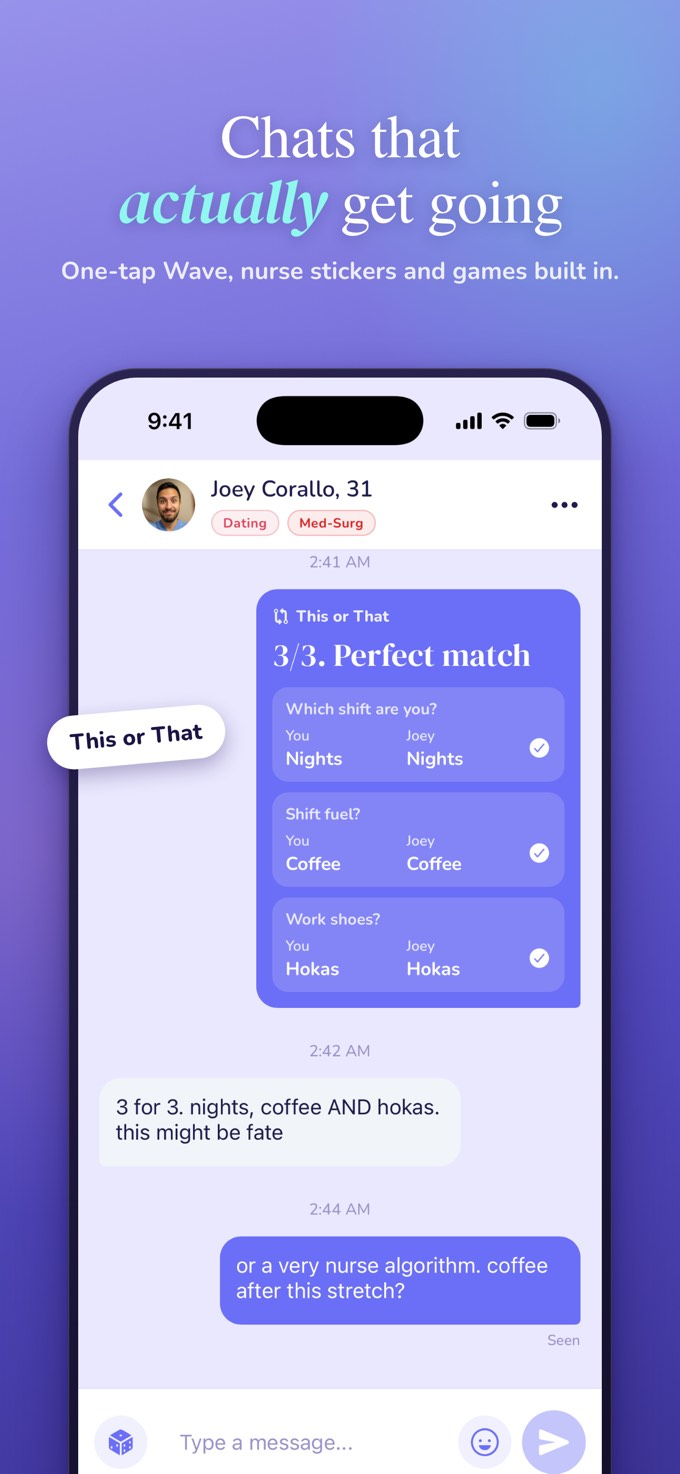
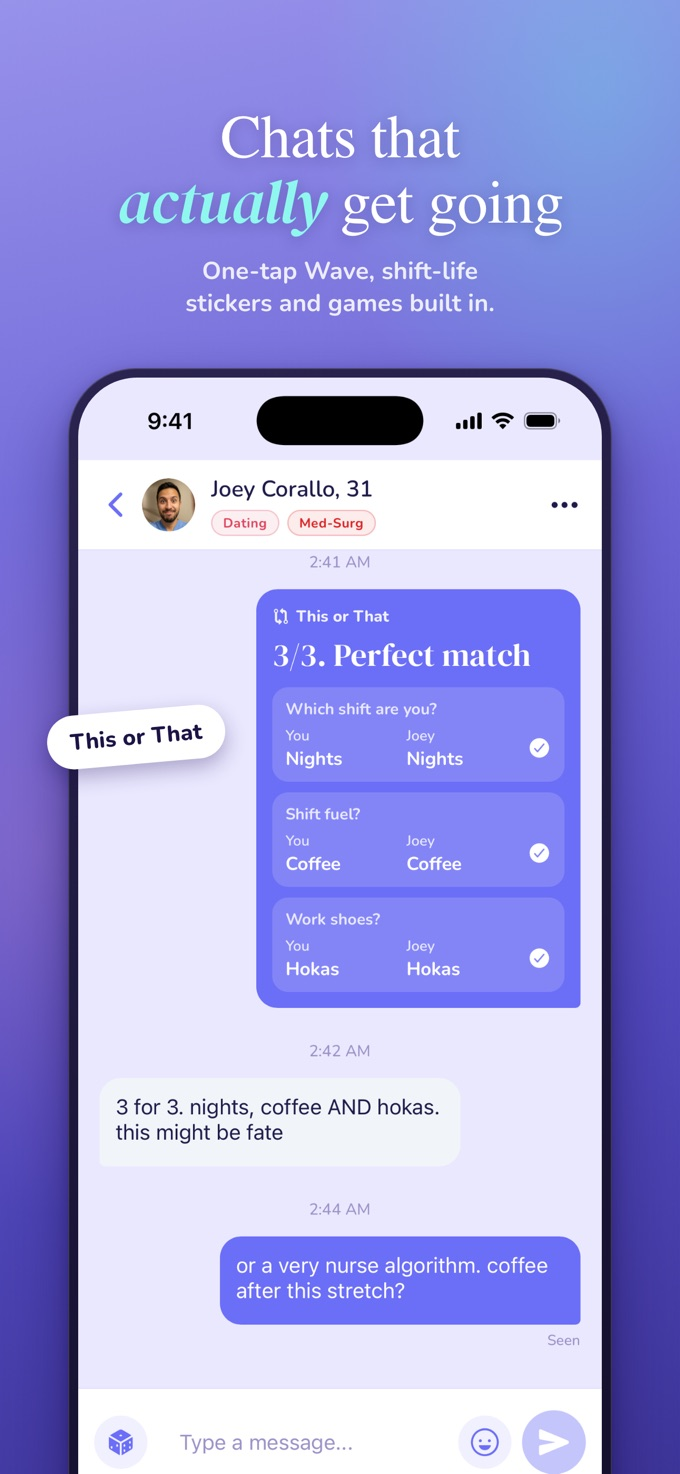
Open to healthcare workers and first responders: copy, job shot, Privacy 2.10, Terms 1.4
Privacy: job + specialty, private typed job, Who-you-see (both ways), First
Responder label, the main-photo check (no biometric data), Anthropic purpose.
Terms: eligibility lists healthcare + first responders, unlisted jobs = OffFeed,
no misrepresenting your job.

Changed region(s): [[0.2471, 0.156, 0.8956, 0.2185], [0.0926, 0.156, 0.2162, 0.1872]]

diff --git a/privacy.html b/privacy.html
@@ -171,12 +171,12 @@
   <div class="policy-header">
     <p class="policy-tag">Legal</p>
     <h1>Privacy Policy</h1>
-    <p class="policy-meta">Version 2.9 &nbsp;·&nbsp; Effective October 6, 2026 &nbsp;·&nbsp; Applies to the OFFUNIT mobile app, waitlist, and website</p>
+    <p class="policy-meta">Version 2.10 &nbsp;·&nbsp; Effective October 12, 2026 &nbsp;·&nbsp; Applies to the OFFUNIT mobile app, waitlist, and website</p>
   </div>
 
   <div class="policy-section">
     <h2>Introduction</h2>
-    <p>OFFUNIT ("we," "us," or "our") is a social networking platform built for nurses and healthcare professionals — for dating, friendship, and professional networking. This Privacy Policy explains what information we collect through the OFFUNIT mobile app, waitlist, and website, how we use it, who we share it with, and the rights and choices you have.</p>
+    <p>OFFUNIT ("we," "us," or "our") is a social networking platform built for nurses, healthcare workers and first responders — for dating, friendship, and professional networking. This Privacy Policy explains what information we collect through the OFFUNIT mobile app, waitlist, and website, how we use it, who we share it with, and the rights and choices you have.</p>
     <p>By creating an OFFUNIT account or joining the waitlist, you agree to the practices described here.</p>
   </div>
 
@@ -188,12 +188,14 @@
       <li>Age / date of birth (to verify you are 18 or older)</li>
       <li>Profile photos and an optional featured GIF</li>
       <li>Bio, icebreaker prompts, and quiz answers (including your personality result)</li>
-      <li>Professional details: nursing specialty and sub-specialty, years of experience, shift type, and certification status</li>
+      <li>Professional details: your job (for example RN, paramedic or firefighter), your specialty, sub-specialty, unit or station, years of experience, and shift type</li>
+      <li>If you tell us your job isn't listed, the job you type in. Only the OFFUNIT team can see it, to decide which jobs to add next. It is never shown to other members</li>
+      <li>Who you see: the job groups you want in your deck (nurses, healthcare, first responders). This works both ways, so people outside the groups you choose don't see you either. If you are a first responder and turn on "Show me as First Responder", other members see only that label, never your exact job or sub-specialty</li>
       <li>Your selected modes (dating, friends, networking) and matching preferences</li>
     </ul>
     <p><strong>If you sign in with Google or Apple:</strong> we receive your name, email address, and an account identifier from Google or Apple. We never receive your Google or Apple password.</p>
     <p><strong>If you verify your nursing license (optional):</strong> we collect your license number, license state, and expiration date. <strong>We never store your license photo</strong> — it is read in memory to pull those details out and is discarded immediately. See Section 4.</p>
-    <p><strong>Location:</strong> with your permission, we collect your device's location coordinates and store them on your profile. We use them to place you in a city hub and to put nurses closest to you first in your deck. Other members are only ever shown your city: never your coordinates, and never how far away you are. If you decline the location permission, you can select your city manually instead.</p>
+    <p><strong>Location:</strong> with your permission, we collect your device's location coordinates and store them on your profile. We use them to place you in a city hub and to put the people closest to you first in your deck. Other members are only ever shown your city: never your coordinates, and never how far away you are. If you decline the location permission, you can select your city manually instead.</p>
     <p><strong>Content you create:</strong> chat messages with your matches, posts, comments, and reactions on the OffFeed, trivia answers and results, badges you earn, reports you submit, and feedback you send us from the app.</p>
     <p><strong>Your settings and activity on the platform:</strong> who you have paged, passed, matched with, or sparked; who you have blocked; whether incognito browsing is turned on; your notification preferences; and your matching filters.</p>
     <p><strong>Purchases and paid features:</strong> if you subscribe to OFFUNIT+ or buy Sparks or Boosts, we store your subscription status, your remaining Spark and Boost balances, and a record of the purchase. See Section 6.</p>
@@ -203,7 +205,7 @@
       <li>App usage events: opening the app, which screens you open, and actions such as signing up, swiping, matching, sending a message, posting, or making a purchase. These record that something happened, never what was said: no message or post text, photos, or profile details are included. We do not record your screen or your taps.</li>
       <li>Push notification tokens (so we can deliver notifications you've enabled)</li>
       <li>Your IP address, which our servers use to apply rate limits and detect abuse</li>
-      <li>Your device's advertising identifier, together with a small number of standard app events — installing the app, opening it, and making a purchase through the App Store or Google Play — which are shared with Meta so we can tell which of our ads actually bring nurses to OFFUNIT. On iOS the advertising identifier is sent only if you allow tracking when the app asks. Decline and it is never sent; Meta still receives the basic app events, without any identifier it could use to tie them to you. See Section 5</li>
+      <li>Your device's advertising identifier, together with a small number of standard app events — installing the app, opening it, and making a purchase through the App Store or Google Play — which are shared with Meta so we can tell which of our ads actually bring people to OFFUNIT. On iOS the advertising identifier is sent only if you allow tracking when the app asks. Decline and it is never sent; Meta still receives the basic app events, without any identifier it could use to tie them to you. See Section 5</li>
       <li>On the website only: general location, browser type, pages visited, IP address, and ad interaction data via Meta Pixel and TikTok Pixel</li>
     </ul>
     <p><strong>What we do not collect:</strong></p>
@@ -236,6 +238,7 @@
     <p>OFFUNIT uses a combination of automated systems and human review to keep the community safe:</p>
     <ul>
       <li><strong>Automated screening:</strong> text and images you post may be automatically scanned by AI systems to detect patient-privacy violations (PHI) and other content that violates our guidelines. Photo metadata (such as embedded GPS data) is stripped from images you upload.</li>
+      <li><strong>Main photo check:</strong> when your first profile photo is set or changed, an AI system checks whether it shows a person rather than, for example, a quote graphic or a screenshot. If it doesn't, your profile may appear later in other members' decks and the app may suggest leading with a photo of you. Nobody is warned, restricted, or banned because of this check. It does not recognize or identify faces, and it creates no facial template or other biometric data.</li>
       <li><strong>Human review:</strong> when content or a profile is reported, our moderation team can review the reported content, the profiles involved, and — for reported conversations — the relevant messages. An AI system reads each new report first and may close one that clearly breaks no rules; it can never warn, restrict, or ban anyone. Those decisions are always made by a person.</li>
       <li><strong>Enforcement records:</strong> if moderation action is taken (warning, content removal, or ban), we keep an internal record of the action and an evidence snapshot of the relevant content. These safety records may be retained even after an account is deleted, for as long as reasonably necessary for the safety of the community, dispute resolution, and legal compliance.</li>
     </ul>
@@ -249,7 +252,7 @@
   <div class="policy-section">
     <h2>5. How We Share Your Information</h2>
     <p>We do not sell, rent, or trade your personal information to any third party for their own marketing purposes. Ever.</p>
-    <p>There is one thing we do share, and we would rather spell it out than bury it. To find out which of our own ads actually bring nurses to OFFUNIT, we send Meta your device's advertising identifier and a few standard events: that the app was installed, that it was opened, and that a purchase was made through the App Store or Google Play. That is the whole list. Under California law this counts as "sharing" for cross-context behavioral advertising, so we name it here and you can switch it off at any time (see Sections 10 and 11). It is measurement of <em>our</em> advertising, not a pipeline for Meta to market to you: your profile, photos, messages, matches, the modes you select, your specialty, and your verification status are never sent.</p>
+    <p>There is one thing we do share, and we would rather spell it out than bury it. To find out which of our own ads actually bring people to OFFUNIT, we send Meta your device's advertising identifier and a few standard events: that the app was installed, that it was opened, and that a purchase was made through the App Store or Google Play. That is the whole list. Under California law this counts as "sharing" for cross-context behavioral advertising, so we name it here and you can switch it off at any time (see Sections 10 and 11). It is measurement of <em>our</em> advertising, not a pipeline for Meta to market to you: your profile, photos, messages, matches, the modes you select, your specialty, and your verification status are never sent.</p>
     <p><strong>Other members:</strong> your profile (name, age, photos, GIF, bio, prompts, professional details, badges, and verified status, plus your gender and who you are interested in, which decide whether Dating is offered between two members) is visible to other OFFUNIT members as part of how the platform works. Your profile also shows your most-liked OffFeed posts, including to members you have not matched with. Posts you made anonymously are never shown there, and you can turn this off in Settings → Show my posts on my profile. Your email, precise location, and license details are never shown to other members, and your license photo is never stored in the first place.</p>
     <p>Some things stay private by design. Other members are never told whether you have an active Boost, how many Sparks or Boosts you have, whether you subscribe to OFFUNIT+, whether you have blocked someone, or that you passed on them. If you browse in incognito mode, members you have not paged do not see you in their deck at all, and your OffFeed posts and comments appear as "Anonymous Nurse." Anything you post while incognito stays anonymous even after you turn incognito off. Anonymous to other members does not mean anonymous to us: our moderators can still see who wrote a post or comment, so that reports about it can be acted on.</p>
     <p>Pages and Sparks work differently. When you Spark someone, they always see that it came from you, because that is the point of a Spark. When you page someone, free members see only that someone paged them; OFFUNIT+ members can see who it was.</p>
@@ -259,7 +262,7 @@
       <li><strong>Cloudflare</strong> — storage and delivery of profile photos and OffFeed media (Cloudflare R2). Because media is served directly to members' devices, Cloudflare receives the IP address of the device requesting it</li>
       <li><strong>Railway</strong> — backend server hosting</li>
       <li><strong>Expo</strong> — app updates and push notification delivery</li>
-      <li><strong>Anthropic</strong> — AI processing for content safety scanning, a first read of reports and in-app feedback, and license-detail extraction</li>
+      <li><strong>Anthropic</strong> — AI processing for content safety scanning, the main photo check, a first read of reports and in-app feedback, and license-detail extraction</li>
       <li><strong>Resend</strong> — transactional email delivery (password resets, verification decisions)</li>
       <li><strong>Sentry</strong> — crash and error reporting</li>
       <li><strong>PostHog</strong> — product analytics (app usage events, stored in the United States), linked to your account by an internal ID rather than your name or email. Your IP address is discarded, not stored with these events</li>

diff --git a/index.html b/index.html
@@ -3,7 +3,7 @@
 <head>
   <meta charset="UTF-8" />
   <meta name="viewport" content="width=device-width, initial-scale=1.0" />
-  <title>OFFUNIT — The Social App Built for Nurses</title>
+  <title>OFFUNIT — Where Nurses Connect | Dating for Nurses &amp; First Responders</title>
 
   <!-- Proves to Meta that we own offunit.app. Required before iOS conversions
        can be optimised for: under ATT, Aggregated Event Measurement will only
@@ -18,16 +18,16 @@
   <link rel="shortcut icon" href="./favicon.ico">
   <link rel="manifest" href="./site.webmanifest">
 
-  <meta name="description" content="OFFUNIT is the social, dating, and networking app built exclusively for nurses. Dating, friendships, career growth, and community — all in one space built for the people who get the 12-hour life. Free on iPhone and Android." />
-  <meta property="og:title" content="OFFUNIT — The App Built for Nurses" />
-  <meta property="og:description" content="Dating, friendships, networking, and community — built exclusively for nurses who deserve a space that actually gets their life." />
+  <meta name="description" content="OFFUNIT is the dating, friends and networking app for nurses, healthcare workers and first responders. Built around nights, 12s and 24s, for the people who get shift life. Free on iPhone and Android." />
+  <meta property="og:title" content="OFFUNIT — Where nurses connect" />
+  <meta property="og:description" content="Dating, friends, networking and community for nurses, medics, firefighters and everyone else on shift." />
   <meta property="og:image" content="https://offunit.app/offunit-logo.png" />
   <meta property="og:url" content="https://offunit.app" />
   <meta property="og:type" content="website" />
   <meta property="og:site_name" content="OFFUNIT" />
   <meta name="twitter:card" content="summary_large_image" />
-  <meta name="twitter:title" content="OFFUNIT — The App Built for Nurses" />
-  <meta name="twitter:description" content="Dating, friendships, networking, and community — built exclusively for nurses." />
+  <meta name="twitter:title" content="OFFUNIT — Where nurses connect" />
+  <meta name="twitter:description" content="Dating, friends, networking and community for nurses, medics, firefighters and everyone else on shift." />
   <meta name="twitter:image" content="https://offunit.app/offunit-logo.png" />
 
   <!-- Says outright that the app is released and where to get it. Search
@@ -38,7 +38,7 @@
     "@type": "MobileApplication",
     "name": "OFFUNIT",
     "url": "https://offunit.app",
-    "description": "The social, dating, and networking app built exclusively for nurses. Available now on iPhone and Android.",
+    "description": "The dating, friends and networking app for nurses, healthcare workers and first responders. Available now on iPhone and Android.",
     "applicationCategory": "SocialNetworkingApplication",
     "operatingSystem": "iOS, Android",
     "image": "https://offunit.app/offunit-logo.png",
@@ -691,9 +691,9 @@
     <div class="hero-inner">
 
       <div class="hero-text">
-        <p class="eyebrow">The app built for nurses</p>
+        <p class="eyebrow">Where nurses connect</p>
         <h1>Your work bestie can't be your only <em>personality trait.</em></h1>
-        <p class="hero-sub">Dating · Friends · Networking · OffFeed — one app, built exclusively for nurses.</p>
+        <p class="hero-sub">Dating · Friends · Networking · OffFeed — for nurses, medics, firefighters and everyone on shift.</p>
 
         <div class="store-buttons">
           <a class="store-btn" href="https://apps.apple.com/us/app/id6779308757" target="_blank" rel="noopener">
@@ -760,7 +760,7 @@
       <div class="feature-card reveal reveal-stagger">
         <span class="feature-icon feature-icon--friends"><svg viewBox="0 0 24 24" aria-hidden="true"><circle cx="9" cy="8.5" r="3.2"/><path d="M3.5 19.5a5.5 5.5 0 0 1 11 0"/><circle cx="16.8" cy="9.5" r="2.6"/><path d="M15.8 14.3a4.6 4.6 0 0 1 5.2 4.6"/></svg></span>
         <p class="feature-title">Friends</p>
-        <p class="feature-desc">New city, new contract? Find nurses near you before your first shift even starts.</p>
+        <p class="feature-desc">New city, new contract? Find your people nearby before your first shift even starts.</p>
       </div>
       <div class="feature-card reveal reveal-stagger">
         <span class="feature-icon feature-icon--networking"><svg viewBox="0 0 24 24" aria-hidden="true"><rect x="3" y="7.5" width="18" height="12.5" rx="2.5"/><path d="M9 7.5V6a1.8 1.8 0 0 1 1.8-1.8h2.4A1.8 1.8 0 0 1 15 6v1.5"/><path d="M3 12.8h18"/></svg></span>
@@ -784,9 +784,10 @@
       <div class="shots-track" id="shots-track"
            role="group" aria-roledescription="carousel" aria-label="OFFUNIT app screens">
         <div class="shot"><img src="./shot-1-schedule.jpg" width="680" height="1474" alt="Nurses who get your schedule. Joey Corallo, a Verified RN in Phoenix, on a Dating card with Pass, Spark and Page." /></div>
-        <div class="shot"><img src="./shot-2-pageback.jpg" width="680" height="1474" loading="lazy" alt="When they page you back. Page answered: Joey and a nurse paged each other, with a Message button." /></div>
+        <div class="shot"><img src="./shot-8-job.jpg" width="680" height="1474" loading="lazy" alt="Medics and firefighters too. The job picker: Nursing, Healthcare and First responders, with Paramedic and Flight selected." /></div>
+        <div class="shot"><img src="./shot-2-pageback.jpg" width="680" height="1474" loading="lazy" alt="When they page you back. Page answered: Joey and his match paged each other, with a Message button." /></div>
         <div class="shot"><img src="./shot-3-person.jpg" width="680" height="1474" loading="lazy" alt="Meet the person, not just the photos. A profile showing an icebreaker answer, their best OffFeed posts and earned badges." /></div>
-        <div class="shot"><img src="./shot-4-people.jpg" width="680" height="1474" loading="lazy" alt="Find your people. The OffFeed, a feed made for nurses, with a Spark button on a post." /></div>
+        <div class="shot"><img src="./shot-4-people.jpg" width="680" height="1474" loading="lazy" alt="Find your people. The OffFeed, a feed made for shift life, with a Spark button on a post." /></div>
         <div class="shot"><img src="./shot-5-chats.jpg" width="680" height="1474" loading="lazy" alt="Chats that actually get going. A This or That game inside a chat, three for three." /></div>
         <div class="shot"><img src="./shot-6-modes.jpg" width="680" height="1474" loading="lazy" alt="One profile, three modes. Sarah Jenkins, a Verified RN, in Friends mode." /></div>
         <div class="shot"><img src="./shot-7-trivia.jpg" width="680" height="1474" loading="lazy" alt="Prove you still remember. Head-to-head nursing trivia with your matches." /></div>
@@ -809,7 +810,7 @@
 <section class="cta-band" id="cta-band">
   <div class="container">
     <h2>Ready to find your people?</h2>
-    <p>Free to download. Built for nurses.</p>
+    <p>Free to download. Built for shift life.</p>
     <div class="store-buttons">
       <a class="store-btn" href="https://apps.apple.com/us/app/id6779308757" target="_blank" rel="noopener">
         <img src="https://cdn.simpleicons.org/appstore/5858C8" alt="" aria-hidden="true" />

diff --git a/terms.html b/terms.html
@@ -178,7 +178,7 @@
   <div class="policy-header">
     <p class="policy-tag">Legal</p>
     <h1>Terms of Service</h1>
-    <p class="policy-meta">Version 1.3 &nbsp;·&nbsp; Last Updated: September 26, 2026</p>
+    <p class="policy-meta">Version 1.4 &nbsp;·&nbsp; Last Updated: October 12, 2026</p>
   </div>
 
   <!-- 1 -->
@@ -197,7 +197,7 @@
       <li>Have not been previously banned from OFFUNIT</li>
       <li>Are not located in a jurisdiction where use of the Platform is prohibited by law</li>
     </ul>
-    <p>OFFUNIT is a community platform built with nurses in mind, but is open to anyone in or adjacent to the healthcare and nursing profession, including nursing students, CNAs, travel nurses, retired nurses, and healthcare supporters. Verified Registered Nurses receive a badge on their profile. Verification is optional and does not restrict access to any features.</p>
+    <p>OFFUNIT is a community platform built with nurses in mind and open to nurses (including nursing students, CNAs and travel nurses), other healthcare workers, and first responders such as EMTs, paramedics, firefighters, police officers and 911 dispatchers. If your job isn't listed in the app, you can still join the OffFeed; Dating, Friends and Networking are for listed jobs for now. Verified Registered Nurses receive a badge on their profile. Verification is optional and does not restrict access to any features.</p>
     <p>We reserve the right to refuse access or terminate accounts at our sole discretion.</p>
   </div>
 
@@ -228,7 +228,8 @@
       <li>Share content that infringes any third party's intellectual property rights</li>
       <li>Attempt to access other users' accounts or the Platform's backend systems</li>
       <li>Use automated bots, scrapers, or crawlers on the Platform</li>
-      <li>Impersonate any person, nurse, or healthcare professional</li>
+      <li>Impersonate any person, nurse, healthcare professional, or first responder</li>
+      <li>Misrepresent your job, including claiming to be a nurse, healthcare worker, first responder, or member of law enforcement when you are not</li>
       <li>Engage in any conduct that could expose OFFUNIT to legal liability</li>
     </ul>
     <p>Violations may result in immediate account suspension or termination without notice.</p>

diff --git a/404.html b/404.html
@@ -17,7 +17,7 @@
 -->
 <meta property="og:site_name" content="OFFUNIT">
 <meta property="og:title" content="Someone shared a post with you on OFFUNIT">
-<meta property="og:description" content="The app built for nurses — dating, friends and networking, with people who actually get the job.">
+<meta property="og:description" content="Where nurses connect — dating, friends and networking for nurses, medics, firefighters and everyone on shift.">
 <meta property="og:image" content="https://offunit.app/offunitsocialpic.png">
 <meta name="twitter:card" content="summary_large_image">
 <link rel="preconnect" href="https://fonts.googleapis.com">
@@ -65,8 +65,8 @@
     <img class="logo" src="/logo-mark.png" alt="OFFUNIT">
     <h1 id="headline">This lives inside OFFUNIT</h1>
     <p id="blurb">
-      OFFUNIT is the app built for nurses — dating, friends and networking with
-      people who already understand the shift you just finished.
+      OFFUNIT is where nurses connect — dating, friends and networking with
+      nurses, medics, firefighters and everyone who understands the shift you just finished.
     </p>
     <div class="stores">
       <a class="btn" href="https://apps.apple.com/us/app/id6779308757">Get it on the App Store</a>
